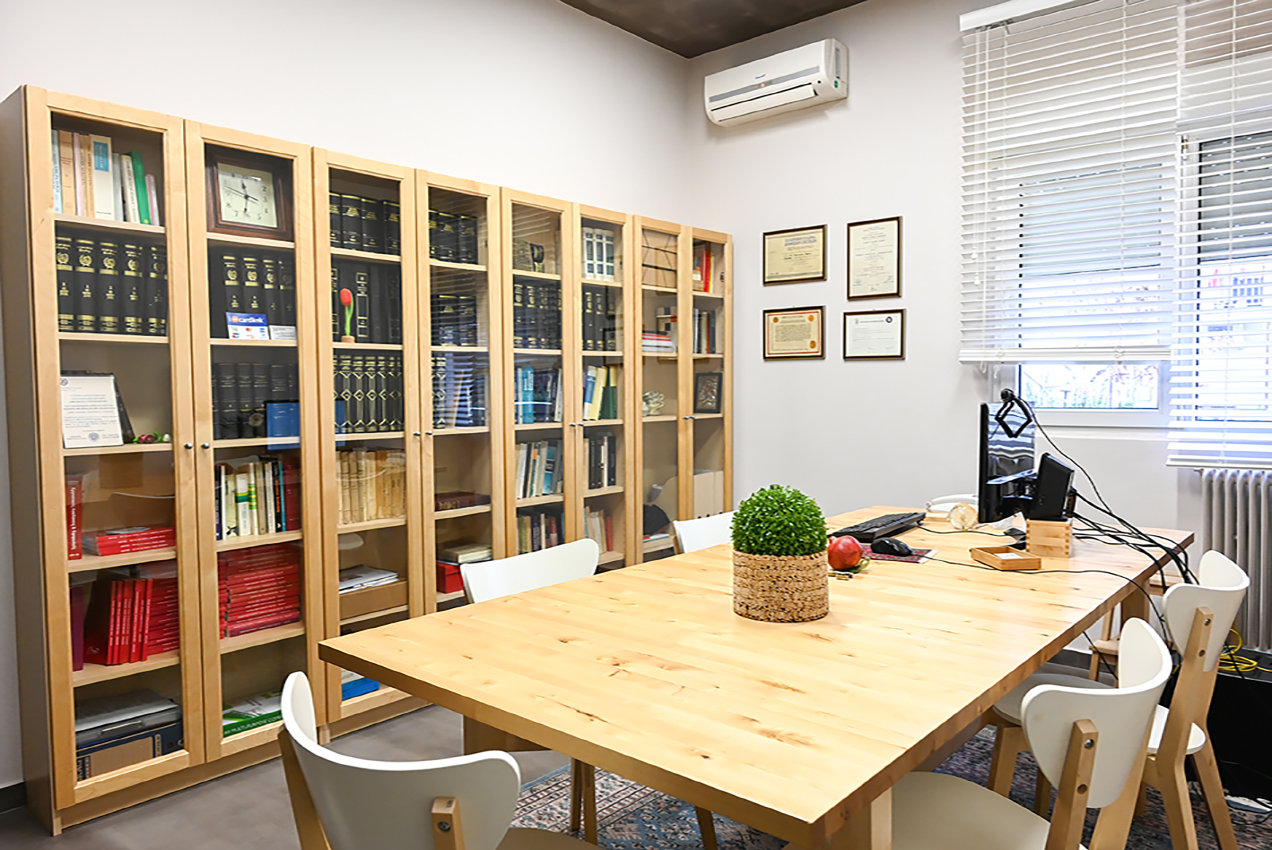
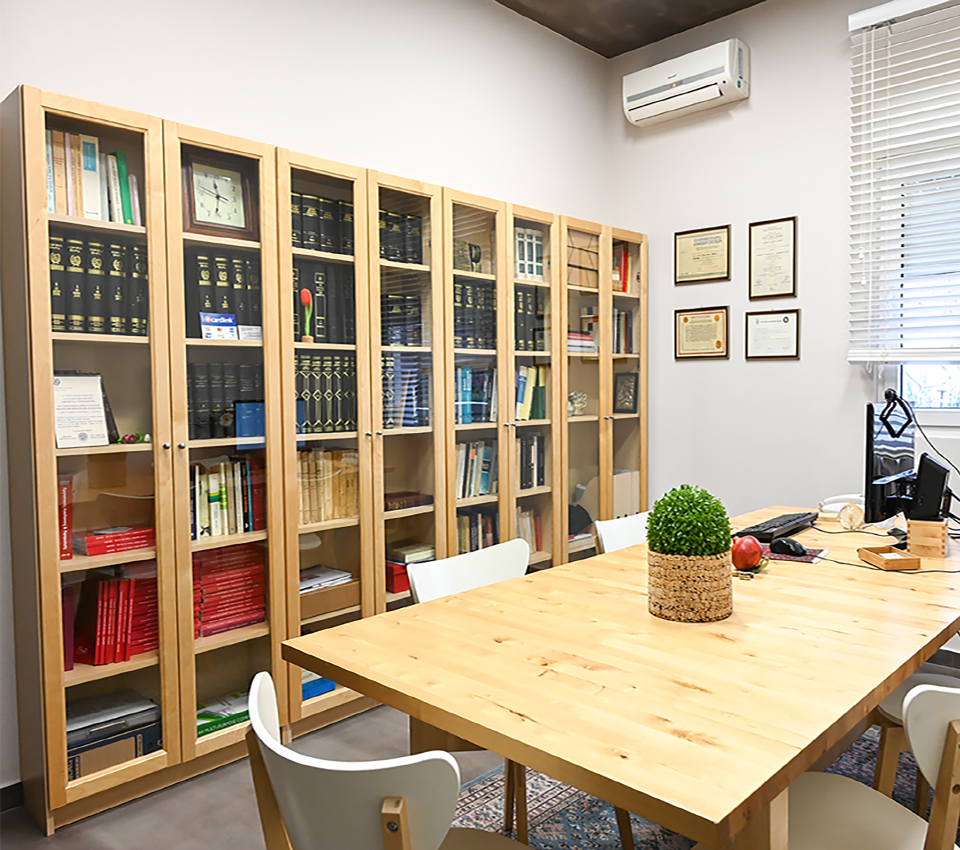
adding pictures

diff --git a/src/Pages/FinalMarinaSPA.js b/src/Pages/FinalMarinaSPA.js
@@ -22,7 +22,7 @@ const FinalMarinaSPA = () => {
 
 
     <div id="home">
-        <div className="slider-area slider-style-5 bg-overlay-solid height-850 bg_image" data-black-overlay="3" style={{backgroundImage: `url(${process.env.PUBLIC_URL}/images/compressed/hero-image.jpg)`}}>
+        <div className="slider-area slider-style-5 bg-overlay-solid height-850 bg_image" data-black-overlay="3" style={{backgroundImage: `url(${process.env.PUBLIC_URL}/images/compressed/DSC_2973.jpg)`}}>
             <div className="container">
                 <div className="row">
                     <div className="col-lg-12">

diff --git a/src/Components/AboutTwo.js b/src/Components/AboutTwo.js
@@ -8,7 +8,7 @@ const AboutTwo = () => {
                 <div className="row row--30 align-items-center">
                     <div className="col-lg-5">
                         <div className="thumbnail">
-                            <img className="w-100" src="./images/about/about-1.png" alt="About Images" />
+                            <img className="w-100" src="./images/compressed/DSC_3129-Edit.jpg" alt="About Images" />
                         </div>
                     </div>
 
